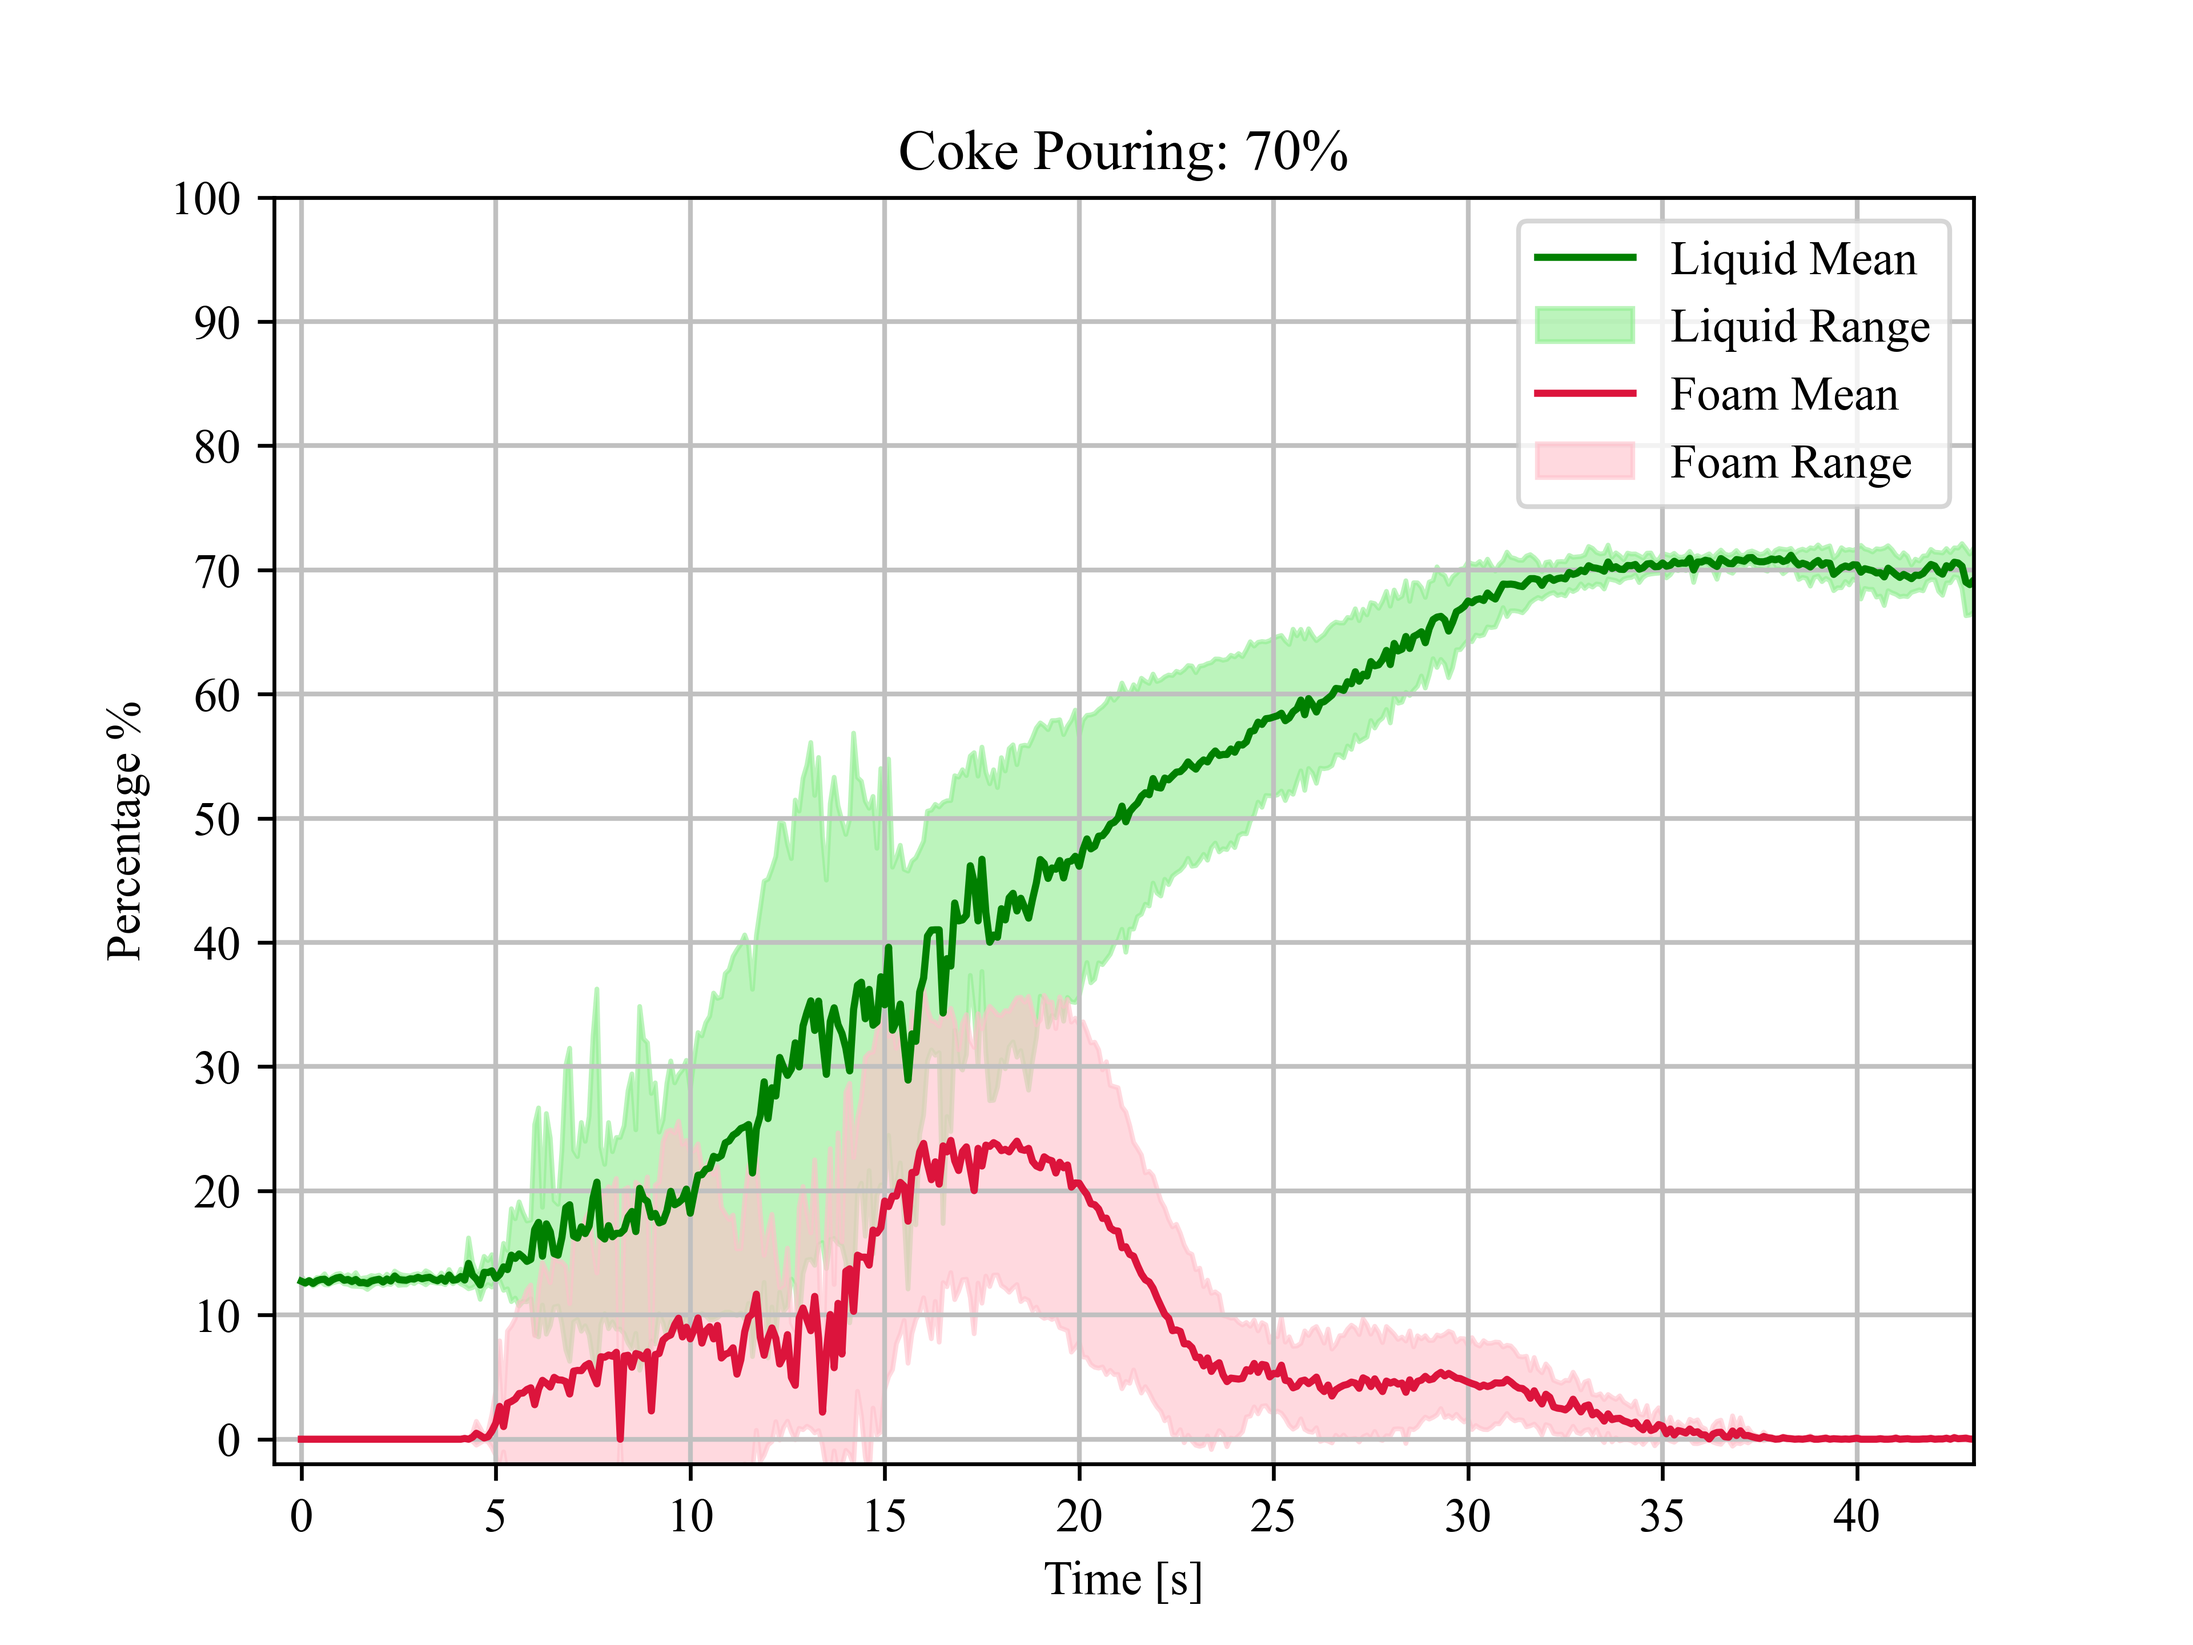
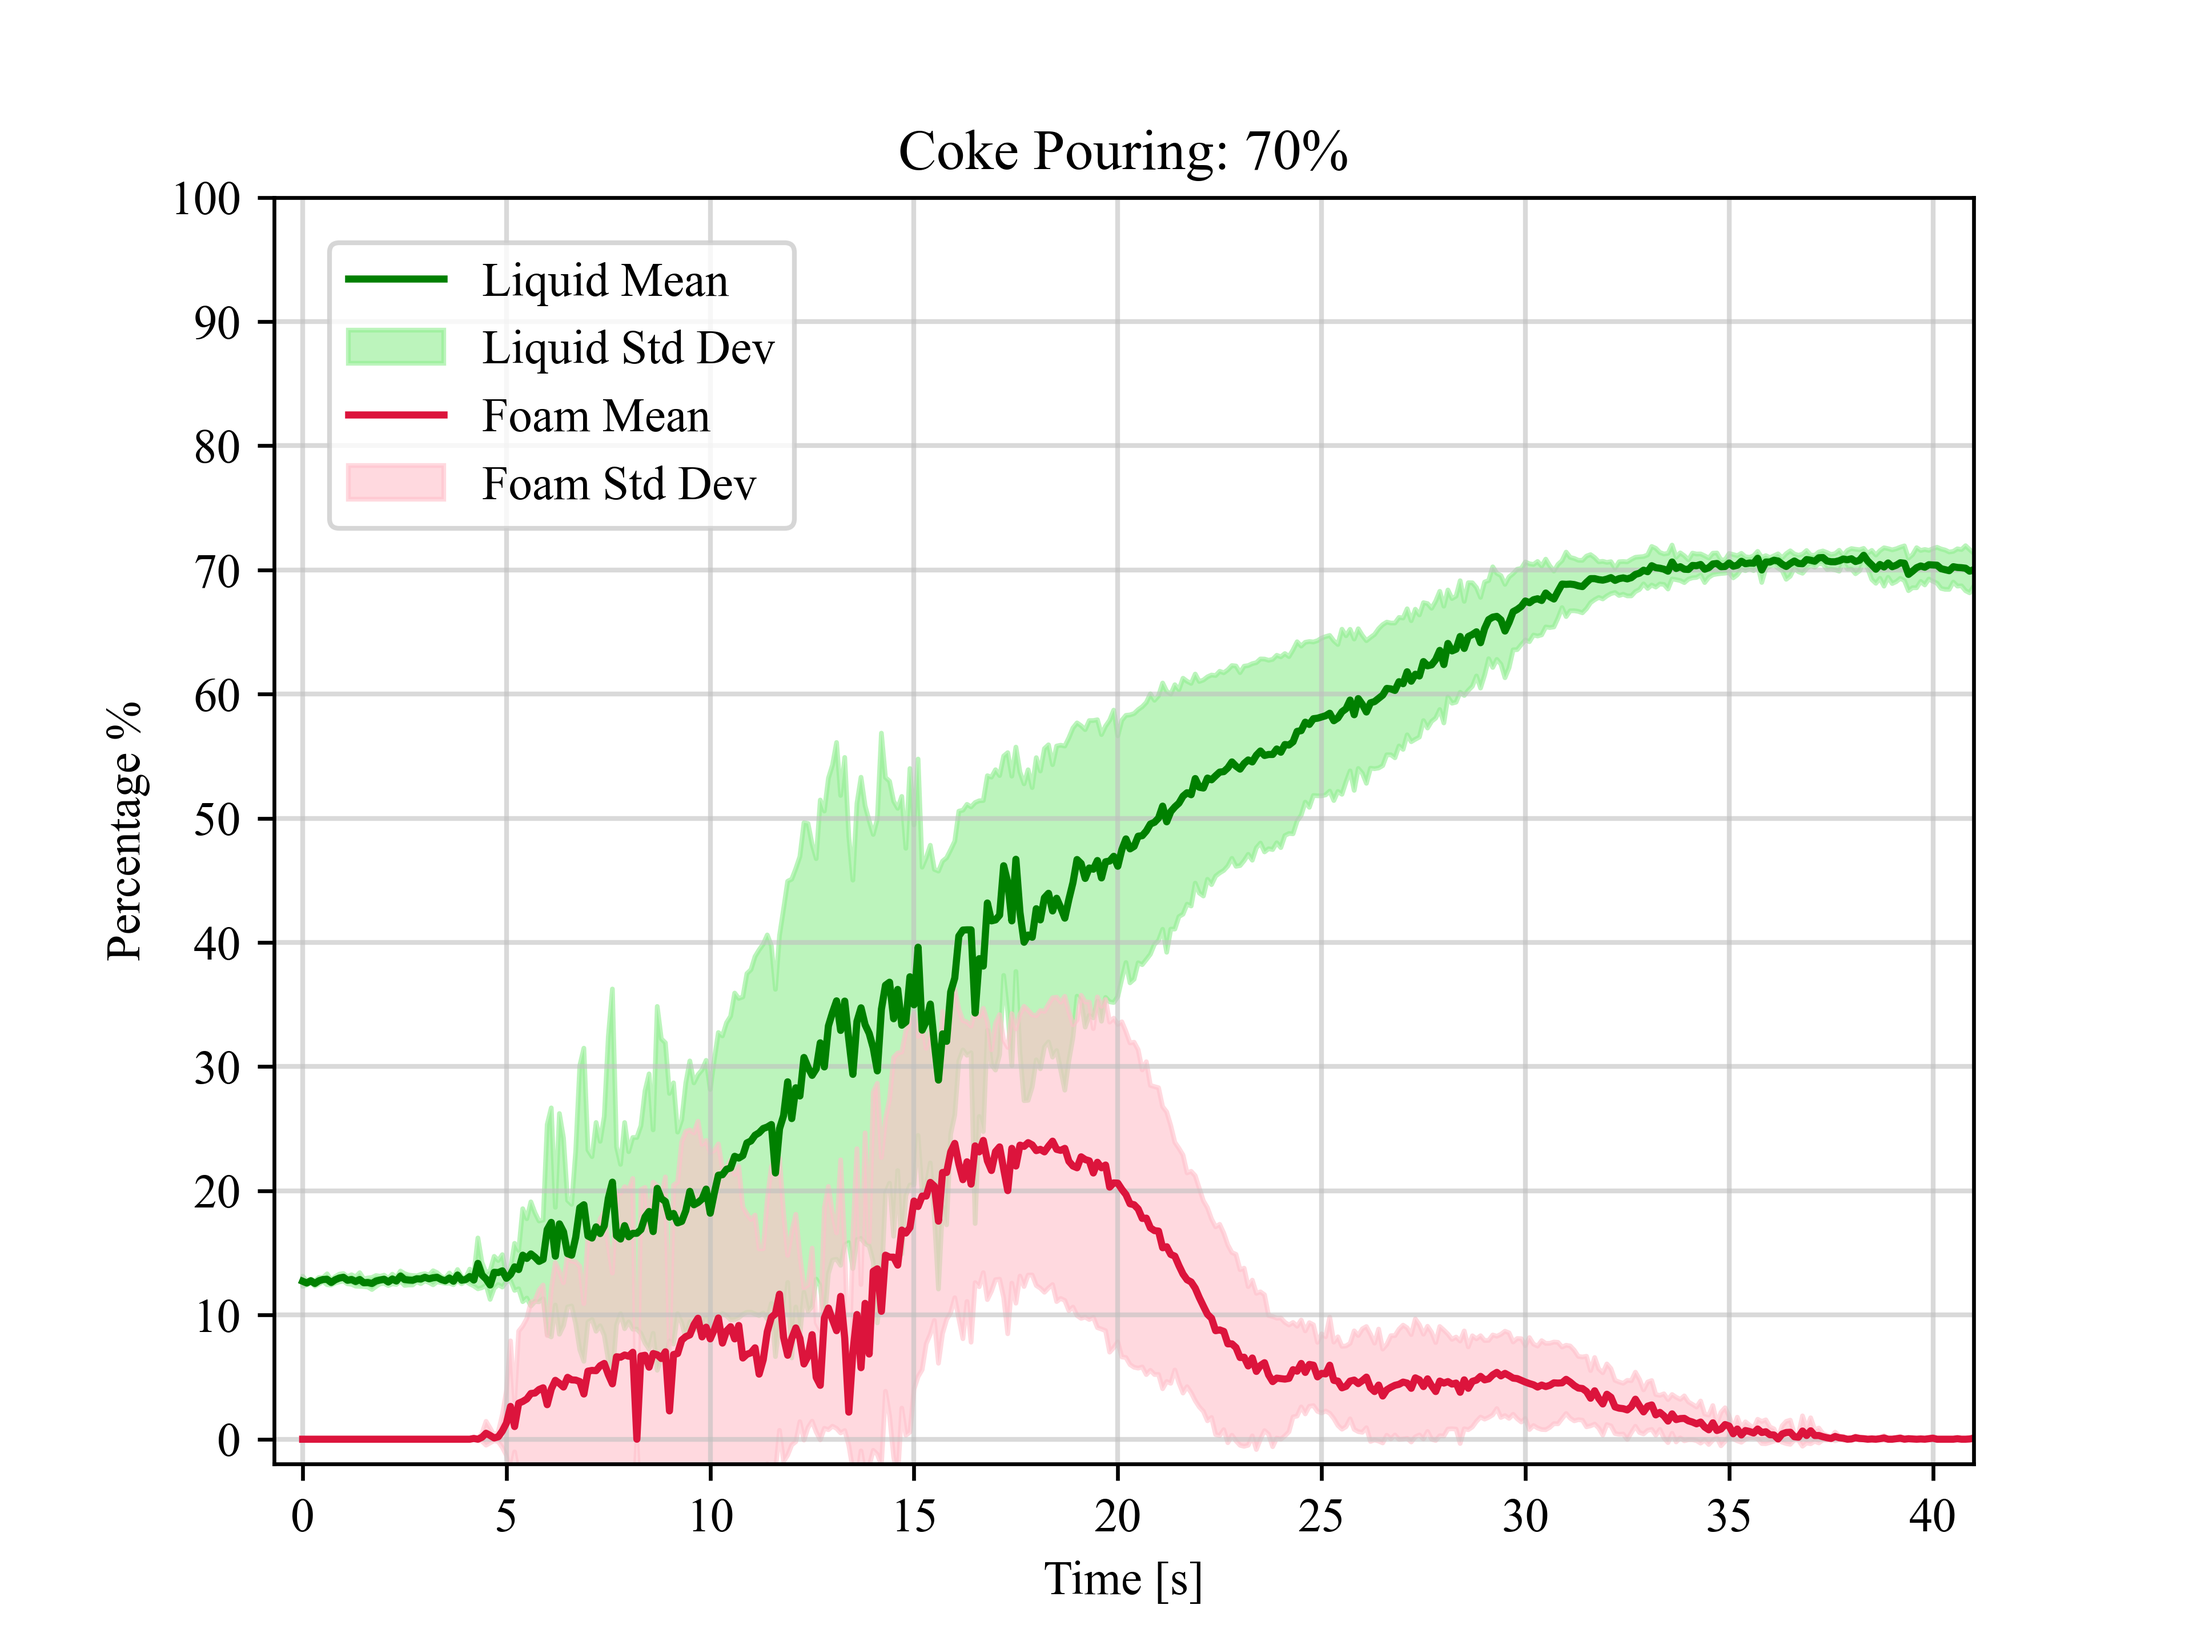
initial useable version finished, plot generated

diff --git a/data_visualizer_mean.py b/data_visualizer_mean.py
@@ -1,6 +1,10 @@
 import matplotlib.pyplot as plt
 import csv
 import numpy as np
+from matplotlib.text import Text
+#import matplotlib as mpl
+
+#mpl.rcParams.update(mpl.rcParamsDefault)
 
 
 def tolerant_mean(arrs):
@@ -24,9 +28,10 @@ def csv_opener(filename):
         plots = csv.reader(csvfile, delimiter = ',')
         
         for row in plots:
-            if row[9] == 'True' and switch == True:
+            if row[8] == 'True' and switch == True:
 
                 align_index = index
+                print('align_index is:', align_index)
                 switch = False
     
             index += 1   
@@ -36,7 +41,7 @@ def csv_opener(filename):
                 y_current = float(row[2])
                 y_foam_current = float(row[3])
                 
-                if abs(y_current-y_before) >= 3 and x_current >= 50:
+                if abs(y_current-y_before) >= 3 and x_current >= 75:
                    y_current = y_before 
                 x.append(x_current)
                 y.append(y_current) 
@@ -44,7 +49,7 @@ def csv_opener(filename):
             
                 y_before = y_current
         
-        offset_factor = 130 # change for every %
+        offset_factor = 180 # change for every %
                 
         x = x[align_index - offset_factor :]
         y = y[align_index - offset_factor :]
@@ -59,14 +64,14 @@ def csv_opener(filename):
 def longest(y_big):
     return max(y_big, key=len)
     
-percent = 70
+percent = 30
 
 if percent == 30:
     x_1, y_1, y_1f = csv_opener('sorted/30/selected/Pouring_Data_2023-08-20 18-23-09.csv')
     x_2, y_2, y_2f = csv_opener('sorted/30/selected/Pouring_Data_2023-08-20 18-25-20.csv')
-    x_3, y_3, y_1f = csv_opener('sorted/30/selected/Pouring_Data_2023-08-20 18-34-16.csv')
-    x_4, y_4, y_1f = csv_opener('sorted/30/selected/Pouring_Data_2023-08-20 19-52-43.csv')
-    x_5, y_5, y_1f = csv_opener('sorted/30/selected/Pouring_Data_2023-08-20 19-57-22.csv')    
+    x_3, y_3, y_3f = csv_opener('sorted/30/selected/Pouring_Data_2023-08-20 18-34-16.csv')
+    x_4, y_4, y_4f = csv_opener('sorted/30/selected/Pouring_Data_2023-08-20 19-52-43.csv')
+    x_5, y_5, y_5f = csv_opener('sorted/30/selected/Pouring_Data_2023-08-20 19-57-22.csv')    
 
 if percent == 40:
     x_1, y_1, y_1f = csv_opener('sorted/40/selected/Pouring_Data_2023-08-20 18-12-51.csv')
@@ -118,35 +123,43 @@ x_plot = longest(x_big)
 y_plot, error, max, min     = tolerant_mean(y_big)
 y_plotf, errorf, maxf, minf = tolerant_mean(y_bigf)
 
-
 # Define a custom font dictionary
 font2 = {'fontname': 'Times New Roman'}
 
+
+
 fig, ax = plt.subplots()
 
-
+# plt.rcParams.update({
+#     "text.usetex": True,
+#     "font.family": 'serif'
+# })
     
-ax.set_xlim(-0.7,43)# use 57 for 30%, and 38 for other percentages
+    
+ax.set_xlim(-0.7,78)# use 57 for 30%, and 38 for other percentages
 ax.set_ylim(-2,100)
 
-ax.grid(color='silver', linestyle='-', linewidth=1)
+ax.grid(color='silver', linestyle='-', linewidth=1, alpha = 0.6)
 
 ax.plot(np.arange(x_plot[0],x_plot[-1]+0.1, 0.1) , y_plot, color='green', label='Liquid Mean')
-ax.fill_between(np.arange(x_plot[0],x_plot[-1]+0.1, 0.1), y_plot - error, y_plot + error, color='lightgreen', label='Liquid Range', alpha = 0.6)
+ax.fill_between(np.arange(x_plot[0],x_plot[-1]+0.1, 0.1), y_plot - error, y_plot + error, color='lightgreen',label='Liquid Std Dev', alpha = 0.6)
 
 ax.plot(np.arange(x_plot[0],x_plot[-1]+0.1, 0.1) , y_plotf, color='crimson', label='Foam Mean')
-ax.fill_between(np.arange(x_plot[0],x_plot[-1]+0.1, 0.1), y_plotf - errorf, y_plotf + errorf, color='pink', label='Foam Range', alpha = 0.6)
+ax.fill_between(np.arange(x_plot[0],x_plot[-1]+0.1, 0.1), y_plotf - errorf, y_plotf + errorf, color='pink', label='Foam Std Dev', alpha = 0.6)
 
 # Set the font for tick labels
 for label in (ax.get_xticklabels() + ax.get_yticklabels()):
     label.set_fontname('Times New Roman')
 
-ax.set_xticks(np.arange(0, 45, 5), **font2) 
+ax.set_xticks(np.arange(0, 80, 10), **font2) 
 ax.set_yticks(np.linspace(0, 100, num=11), **font2)
 ax.set_xlabel("Time [s]", **font2)
 ax.set_ylabel("Percentage %", **font2)
 ax.set_title("Coke Pouring: " + str(percent) + "%", **font2)
-ax.legend(prop = {'family': 'Times New Roman'})
+
+ax.legend(prop={'family': 'Times New Roman'}, loc='lower right', bbox_to_anchor=(0.32,0.72))
+
+
 
 # Save and display the plot
 plt.savefig(str(percent) + '.png', dpi = 600)
